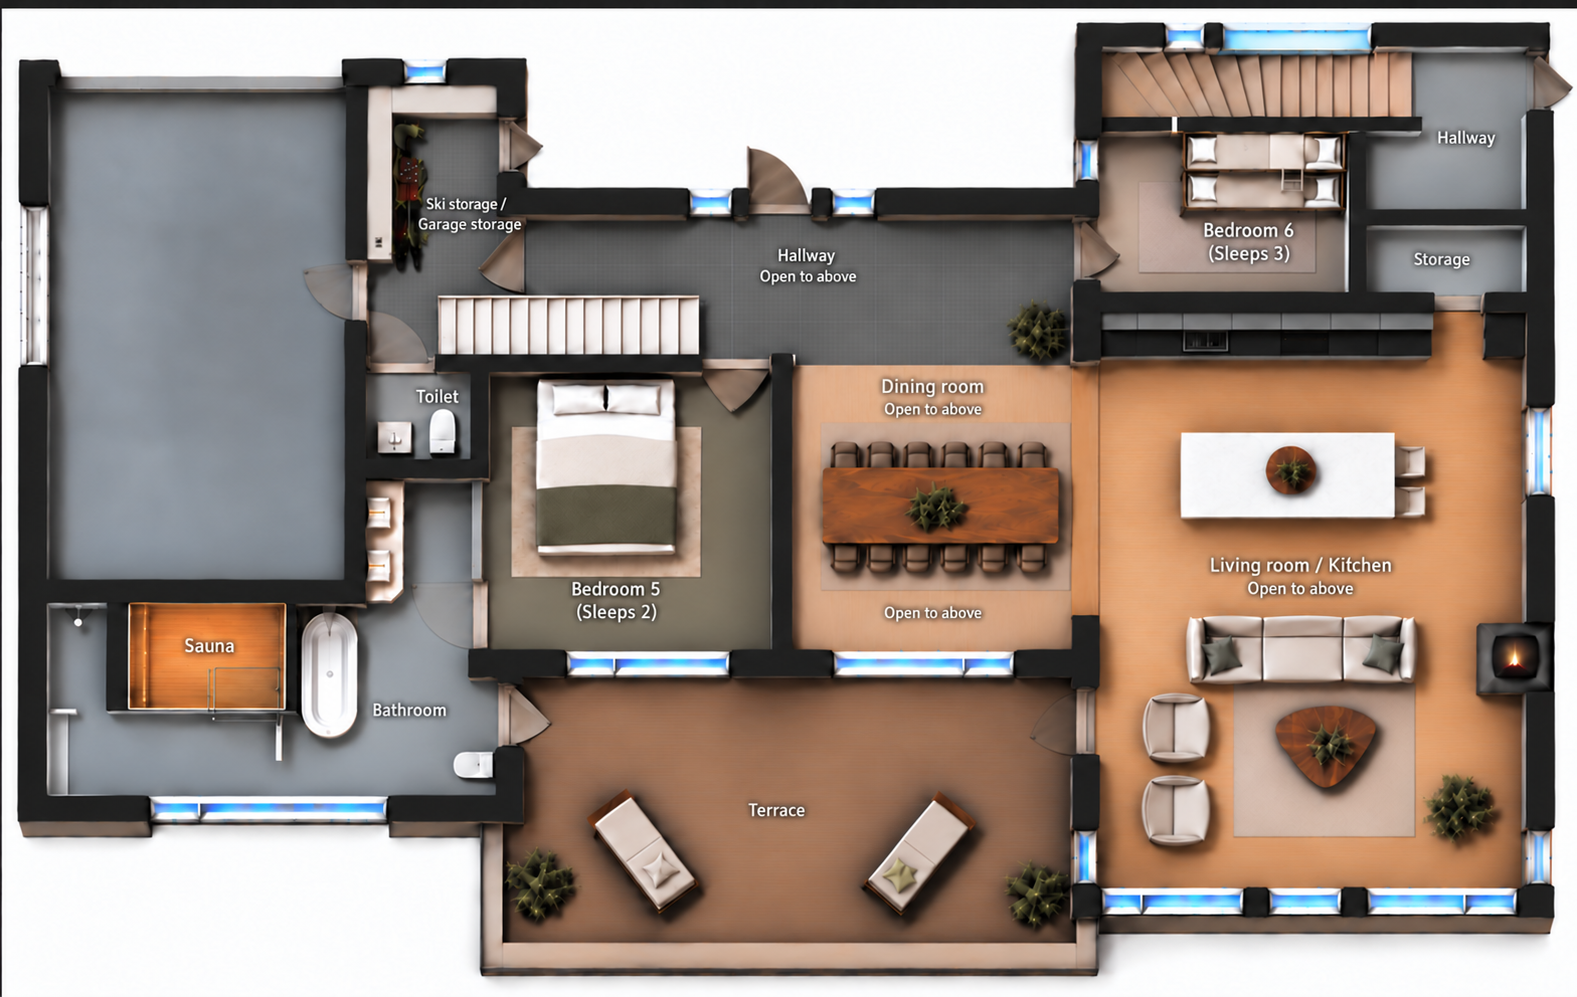
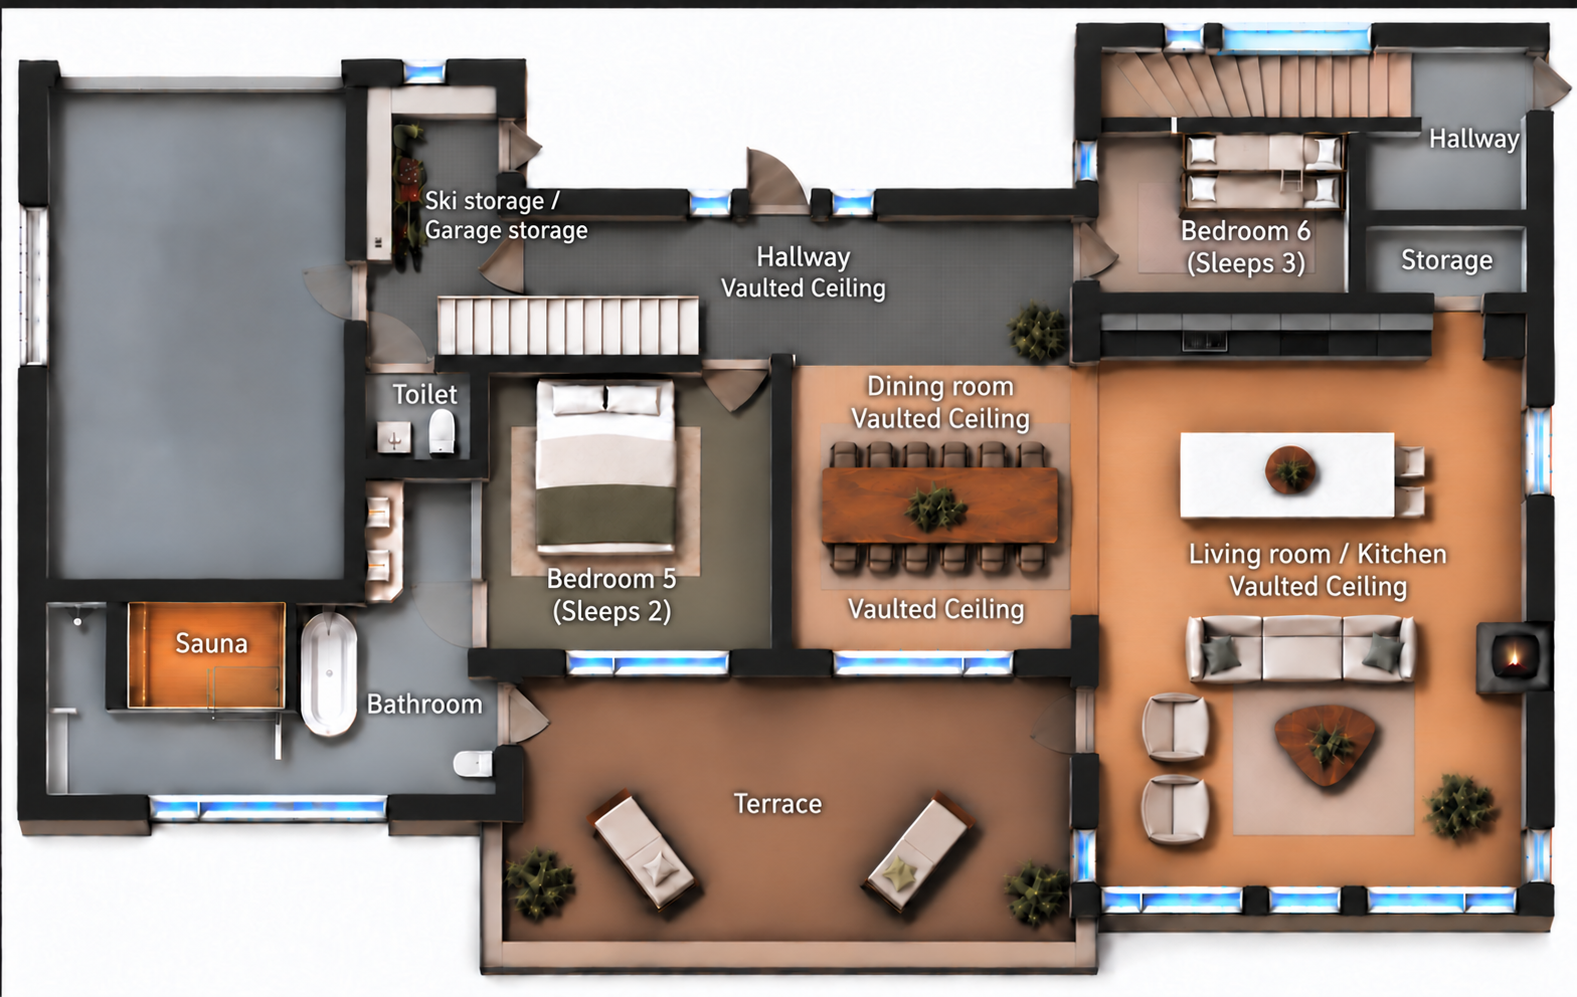
Refine floor plan typography, mattresses and sofa table clearance

diff --git a/docs/floor-plans.md b/docs/floor-plans.md
@@ -1,5 +1,37 @@
 # Three floor plans
 
+## Vaulted Ceiling and consistent typography, 30 October 2026
+
+Built-in imagegen updated `public/images/floor-plan-main.png`,
+`public/images/floor-plan-main-en.png`, `public/images/floor-plan-lower.png`,
+and `public/images/floor-plan-lower-en.png`. Main and lower-floor labels use
+larger white sans-serif lettering, with the loft as the font/relative-size
+reference. English main-floor annotations now read Vaulted Ceiling in all four
+original positions. Both Hallway labels are retained. Norwegian åpen himling
+wording remains. Room numbers and sleeping counts were visually checked; raw
+pixel checks still count 12 chairs on each dining-table side in both languages,
+plus the two end chairs (26 total).
+
+Norwegian main-floor typography prompt:
+
+Use case: typography-only image edit. IMAGE1 is the plan to edit. IMAGE2 is the LOFT FONT REFERENCE ONLY, never copy room layouts. Match its clean white sans-serif font, regular/medium weight, subtle restrained dark outline/shadow and uniform letter height. Existing small labels are currently visibly smaller: ENLARGE them so all room names and descriptions match the loft's relative size when plans are displayed at equal width. All words including room names and parenthetical sleeping counts should use the SAME size and font, not small captions. Keep every original room/annotation label in its correct place, wrap on two or three lines as needed inside room boundaries. No new or omitted labels. ONLY text/typography changes; preserve all architecture, fixtures, furniture, bed footprints, doors, windows, stairs, material colors, framing and original complete canvas. No crop, zoom, resize, decorative additions or geometry changes. Main-floor canvas is1577px wide: use about26–28px label font, equivalent in relative size to loft24px on1522px. Preserve ALL exact Norwegian wording, room numbers and capacities: Soverom5(2soveplasser),Soverom6(3soveplasser),Bad,Sauna,WC,Skibod/Garasjebod,Gang,Bod,Spisestue,Stue/Kjøkken,Terrasse,allåpenhimling. Keep all annotations including duplicated åpen himling locations; only font size/family changes.
+
+English main-floor typography prompt:
+
+Use case: typography-only image edit. IMAGE1 is the plan to edit. IMAGE2 is the LOFT FONT REFERENCE ONLY, never copy room layouts. Match its clean white sans-serif font, regular/medium weight, subtle restrained dark outline/shadow and uniform letter height. Existing small labels are currently visibly smaller: ENLARGE them so all room names and descriptions match the loft's relative size when plans are displayed at equal width. All words including room names and parenthetical sleeping counts should use the SAME size and font, not small captions. Keep every original room/annotation label in its correct place, wrap on two or three lines as needed inside room boundaries. No new or omitted labels. ONLY text/typography changes; preserve all architecture, fixtures, furniture, bed footprints, doors, windows, stairs, material colors, framing and original complete canvas. No crop, zoom, resize, decorative additions or geometry changes. Main-floor canvas1577px: use about26–28px font. Replace EVERY occurrence of 'Open to above' with EXACT 'Vaulted Ceiling' (capital V and C), including hallway, dining room annotations and living/kitchen. No 'Open to above' must remain. All other English wording remains exact:Bedroom5(Sleeps2),Bedroom6(Sleeps3),Bathroom,Sauna,Toilet,Ski storage/Garage storage,Hallway,Storage,Dining room,Living room/Kitchen,Terrace. Use same larger letter size for Vaulted Ceiling as other descriptions, not tiny subtitles. Keep all nontext contents unchanged.
+
+Final English main-floor label completion prompt:
+
+Precise text-only completion. Keep the supplied main-floor English plan exactly as is, including the enlarged matching white sans-serif typography. Add back ONLY TWO labels omitted in previous typography pass: (1) 'Hallway' centered in the small upper-right grey corridor room, to the RIGHT of Bedroom6 and ABOVE Storage (roughly x1465,y137). (2) 'Vaulted Ceiling' in the empty floor strip BELOW the dining table, inside the dining room above terrace (roughly x940,y613). Match the SAME font family, weight, visible size and subtle dark shadow as current 'Vaulted Ceiling' under Dining room heading. Keep the other three Vaulted Ceiling labels (under main Hallway, under Dining room, under Living room/Kitchen) unchanged. There should now be FOUR Vaulted Ceiling annotations, and TWO Hallway labels, in their original zones. Do not move any other labels, change any wording, furniture, wall, door, window, stair, object, image dimensions or framing. No other edits. Add only these2missingtextlabels.
+
+Norwegian lower-floor typography prompt:
+
+Use case: typography-only image edit. IMAGE1 is the plan to edit. IMAGE2 is the LOFT FONT REFERENCE ONLY, never copy room layouts. Match its clean white sans-serif font, regular/medium weight, subtle restrained dark outline/shadow and uniform letter height. Existing small labels are currently visibly smaller: ENLARGE them so all room names and descriptions match the loft's relative size when plans are displayed at equal width. All words including room names and parenthetical sleeping counts should use the SAME size and font, not small captions. Keep every original room/annotation label in its correct place, wrap on two or three lines as needed inside room boundaries. No new or omitted labels. ONLY text/typography changes; preserve all architecture, fixtures, furniture, bed footprints, doors, windows, stairs, material colors, framing and original complete canvas. No crop, zoom, resize, decorative additions or geometry changes. Lower-floor canvas1721px: use about28–30px label font, equivalent to loft24px on1522px. Keep every Norwegian word/number/count exact:Teknisk rom,Soverom1(3soveplasser),Soverom2(3soveplasser),Soverom3(2soveplasser),Soverom4(4soveplasser),Soverom5(4soveplasser),Bod in BOTH storage rooms,Bad in BOTH actual bathrooms,Sauna,Toalett,Gang,Terrasse. CRITICAL dining table and ALL26CHAIRS are unchanged:12left+12right+1top+1bottom. Do not redraw/move/add/remove any chair or alter wider table shape and kitchen-island clearance. Only enlarge and match text.
+
+English lower-floor typography prompt:
+
+Use case: typography-only image edit. IMAGE1 is the plan to edit. IMAGE2 is the LOFT FONT REFERENCE ONLY, never copy room layouts. Match its clean white sans-serif font, regular/medium weight, subtle restrained dark outline/shadow and uniform letter height. Existing small labels are currently visibly smaller: ENLARGE them so all room names and descriptions match the loft's relative size when plans are displayed at equal width. All words including room names and parenthetical sleeping counts should use the SAME size and font, not small captions. Keep every original room/annotation label in its correct place, wrap on two or three lines as needed inside room boundaries. No new or omitted labels. ONLY text/typography changes; preserve all architecture, fixtures, furniture, bed footprints, doors, windows, stairs, material colors, framing and original complete canvas. No crop, zoom, resize, decorative additions or geometry changes. Lower-floor canvas1721px: use about28–30px label font, equivalent to loft24px on1522px. Keep English wording exact:Utility room,Bedroom1(Sleeps3),Bedroom2(Sleeps3),Bedroom3(Sleeps2),Bedroom4(Sleeps4),Bedroom5(Sleeps4),Storage at BOTH storage rooms,Bathroom at BOTH actual bathrooms,Sauna,Toilet,Hallway,Terrace. CRITICAL keep ALL26DININGCHAIRS in exact positions:12left+12right+1top+1bottom; don't redraw table or chairs, no added/missing chairs and no change in table/island gap. No Norwegian wording. Only enlarge and match text.
+
 ## English plan labels and slightly larger table, 29 October 2026
 
 `FloorPlans.tsx` now chooses both its plan image and full-image link from the
@@ -175,3 +207,22 @@ Precise correction, existing floor-plan rendering edit. IMAGE1 is the attractive
 ## Final loft correction prompt
 
 Precise correction to illustrated loft floor plan IMAGE1, matching real Matterport layout IMAGE2. Preserve image1 style and main left volume, furniture and all visible plan positions. CRITICAL isolated upper right lounge in IMAGE2 has an UNOBSERVED/EMPTY DIAGONAL TRIANGULAR REGION across its right half plus a small bottom-right notch. Image1 wrongly filled that entire region with wood flooring. Remove that invented flooring: show empty WHITE in the exact diagonal gap and notch of IMAGE2. Keep two beanbags, animal rug and visible wood floor in their exact original positions. Do NOT enclose or fill scanned gaps. Also remove windows invented by IMAGE1 at top of bedrooms, left of bathroom, bottom of living room and top of isolated lounge unless actually shown in IMAGE2; original source should control. Preserve exact walls and openings from IMAGE2. Do not add decor, furnishings, stairs, rails or room contents. Labels remain two Soverom, one Bad, three Loft. Preserve full complete floor plan and same relative scale and isolated placement. White outside and within unobserved gaps.
+
+## Loftstua, shorter mattresses and sofa clearance, 30 October 2026
+
+Updated `public/images/floor-plan-loft.png` and `public/images/floor-plan-loft-en.png` using the built-in image-generation edit tool. Both coffee tables now have a small strip of floor separating them from the sofa. Four alcove mattresses are shorter, with their foot ends retained. Norwegian living-room label is now `Loftstua`; English remains `Loft lounge`. Inspected both complete output images for preserved rooms, windows, stairs and labels.
+
+Norwegian output: `exec-99030dc5-5c3c-482a-81e1-4220cd32f39c.png`.
+English output: `exec-4065cd8c-ae5d-458e-8bf3-9306db58799f.png`.
+
+Exact Norwegian prompt:
+
+```text
+Use case: precise-object-edit. IMAGE1 is the complete current loft plan edit target. IMAGE2 is owner red outline reference for SHORTER MATTRESSES in Alcove10. IMAGE3 is owner reference for TWO COFFEE TABLES TOO CLOSE TO SOFA. Make ONLY these requested edits: A) In projecting sleeping Alcove10, keep exactlyFOURdistinct single mattress shapes, same widths and side-by-side order, but shorten all four by about15–20percent to match owner's red outlines. Keep their bottom/foot ends anchored at existing position near lower wall (aroundy653 in full plan), pull their upper/head ends DOWNWARD about25pixels (fromaroundy498 toaroundy523), exposing more wood floor at upper side of alcove. Retain bedding/pillows and4sleepingplaces, do not alter alcove walls/windows/label. B) Move BOTH small square wood coffee tables beside the long sofa horizontally RIGHT by onlyabout18–22pixels in the full plan. Same table sizes, same vertical positions and spacing between tables; create a small clear strip of visible floor between sofa edge and table edges, enough for sitting comfortably, not a wide gap. Do NOT move or resize sofa, table-tennis, walls or any other furniture. Keep tables well clear of table-tennis. C) Replace only living-room label 'Loft' with 'Loftstua'. Position this label in nearby clear floor space slightly above the upper coffee table if necessary so it does not overlap sofa/tables/table-tennis. Preserve exact other Norwegian labels 'Soverom 9 (2 soveplasser)', 'Soverom 8 (2 soveplasser)', 'Bad', 'Alkove 10 (4 soveplasser)', 'Hems'. Keep currentfontfamily/size. All other full-plan geometry, room dimensions, numbered rooms, beds outside alcove, bathroom fixtures, four window groups, both staircases, short clear glass railing, complete isolated upper-right room with open left stair entrance and horizontally running small stair, labels and materials remain unchanged. Same full canvas/framing, no crop/zoom/resize, no red marks, no new objects. Only shorter alcove mattresses, small rightward coffee-table offsets and indicated living-room label change.
+```
+
+Exact English prompt:
+
+```text
+Use case: precise-object-edit. IMAGE1 is the complete current loft plan edit target. IMAGE2 is owner red outline reference for SHORTER MATTRESSES in Alcove10. IMAGE3 is owner reference for TWO COFFEE TABLES TOO CLOSE TO SOFA. Make ONLY these requested edits: A) In projecting sleeping Alcove10, keep exactlyFOURdistinct single mattress shapes, same widths and side-by-side order, but shorten all four by about15–20percent to match owner's red outlines. Keep their bottom/foot ends anchored at existing position near lower wall (aroundy653 in full plan), pull their upper/head ends DOWNWARD about25pixels (fromaroundy498 toaroundy523), exposing more wood floor at upper side of alcove. Retain bedding/pillows and4sleepingplaces, do not alter alcove walls/windows/label. B) Move BOTH small square wood coffee tables beside the long sofa horizontally RIGHT by onlyabout18–22pixels in the full plan. Same table sizes, same vertical positions and spacing between tables; create a small clear strip of visible floor between sofa edge and table edges, enough for sitting comfortably, not a wide gap. Do NOT move or resize sofa, table-tennis, walls or any other furniture. Keep tables well clear of table-tennis. C) Keep living room English label 'Loft lounge', placing it in nearby clear floor space slightly above upper coffee table only if needed to avoid overlap after table shift. Preserve exact English labels 'Bedroom 9 (Sleeps 2)', 'Bedroom 8 (Sleeps 2)', 'Bathroom', 'Sleeping alcove 10 (Sleeps 4)', 'Mezzanine'. Keep currentfontfamily/size. All other full-plan geometry, room dimensions, numbered rooms, beds outside alcove, bathroom fixtures, four window groups, both staircases, short clear glass railing, complete isolated upper-right room with open left stair entrance and horizontally running small stair, labels and materials remain unchanged. Same full canvas/framing, no crop/zoom/resize, no red marks, no new objects. Only shorter alcove mattresses, small rightward coffee-table offsets and indicated living-room label change.
+```
